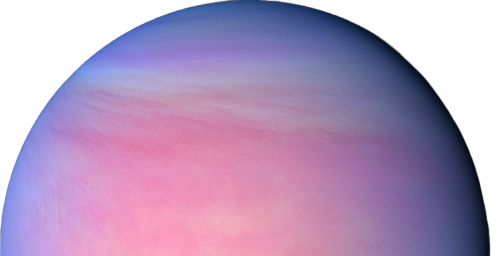
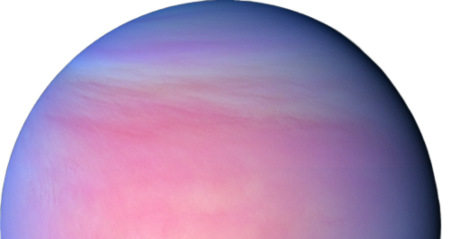
add planet

diff --git a/planet/venus.html b/planet/venus.html
@@ -77,12 +77,12 @@
           <h1>ดาวศุกร์</h1>
           <hr>
           <p>
-            “ ดาวศุกร์หมุนอย่างช้าๆ และหมุนในทิศทางตรงกันข้ามกับดาวเคราะห์อื่น มีชั้นบรรยากาศที่หนา ทำให้ไม่สามารถระบายความร้อนออกไปได้ ดาวศุกร์จึงเป็นดาวเคราะห์ที่ร้อนที่สุดในระบบสุริยะ ”
+            “ ดาวศุกร์หมุนอย่างช้าๆ และหมุนในทิศทางตรงกันข้ามกับดาวเคราะห์อื่น มีชั้นบรรยากาศที่หนา <br>ทำให้ไม่สามารถระบายความร้อนออกไปได้ ดาวศุกร์จึงเป็นดาวเคราะห์ที่ร้อนที่สุดในระบบสุริยะ ”
           </p>
         </div>
       </div>
       <div class="overlay text-center bottom">
-        <img class="planet-pic" src="../assets/venus1.png" />
+        <img class="planet-pic" src="../assets/Venus.png" />
       </div>
 
       

diff --git a/planet/sun.html b/planet/sun.html
@@ -79,9 +79,7 @@
           <h1>ดวงอาทิตย์</h1>
           <hr>
           <p>
-            “ ดาวฤกษ์สีเหลือง ศูนย์กลางระบบสุริยจักรวาล เป็นแหล่งพลังงาน
-สำคัญที่สุดของสิ่งมีชีวิตบนโลก แรงโน้มถ่วงของดวงอาทิตย์ดึงดูด
-ทุกอย่าง ตั้งแต่ดาวเคราะห์ขนาดใหญ่ ไปจนถึงเศษเสี้ยวเล็กๆ ในวงโคจร ”
+            “ ดาวฤกษ์สีเหลือง ศูนย์กลางระบบสุริยจักรวาล เป็นแหล่งพลังงานสำคัญที่สุดของสิ่งมีชีวิตบนโลก<br>แรงโน้มถ่วงของดวงอาทิตย์ดึงดูดทุกอย่าง ตั้งแต่ดาวเคราะห์ขนาดใหญ่ ไปจนถึงเศษเสี้ยวเล็กๆ ในวงโคจร ”
           </p>
         </div>
       </div>

diff --git a/planet/saturn.html b/planet/saturn.html
@@ -83,7 +83,7 @@
         </div>
       </div>
       <div class="overlay text-center bottom">
-        <img class="planet-pic" src="../assets/saturn1.png" />
+        <img class="planet-pic" src="../assets/saturn.png" />
       </div>
 
       
